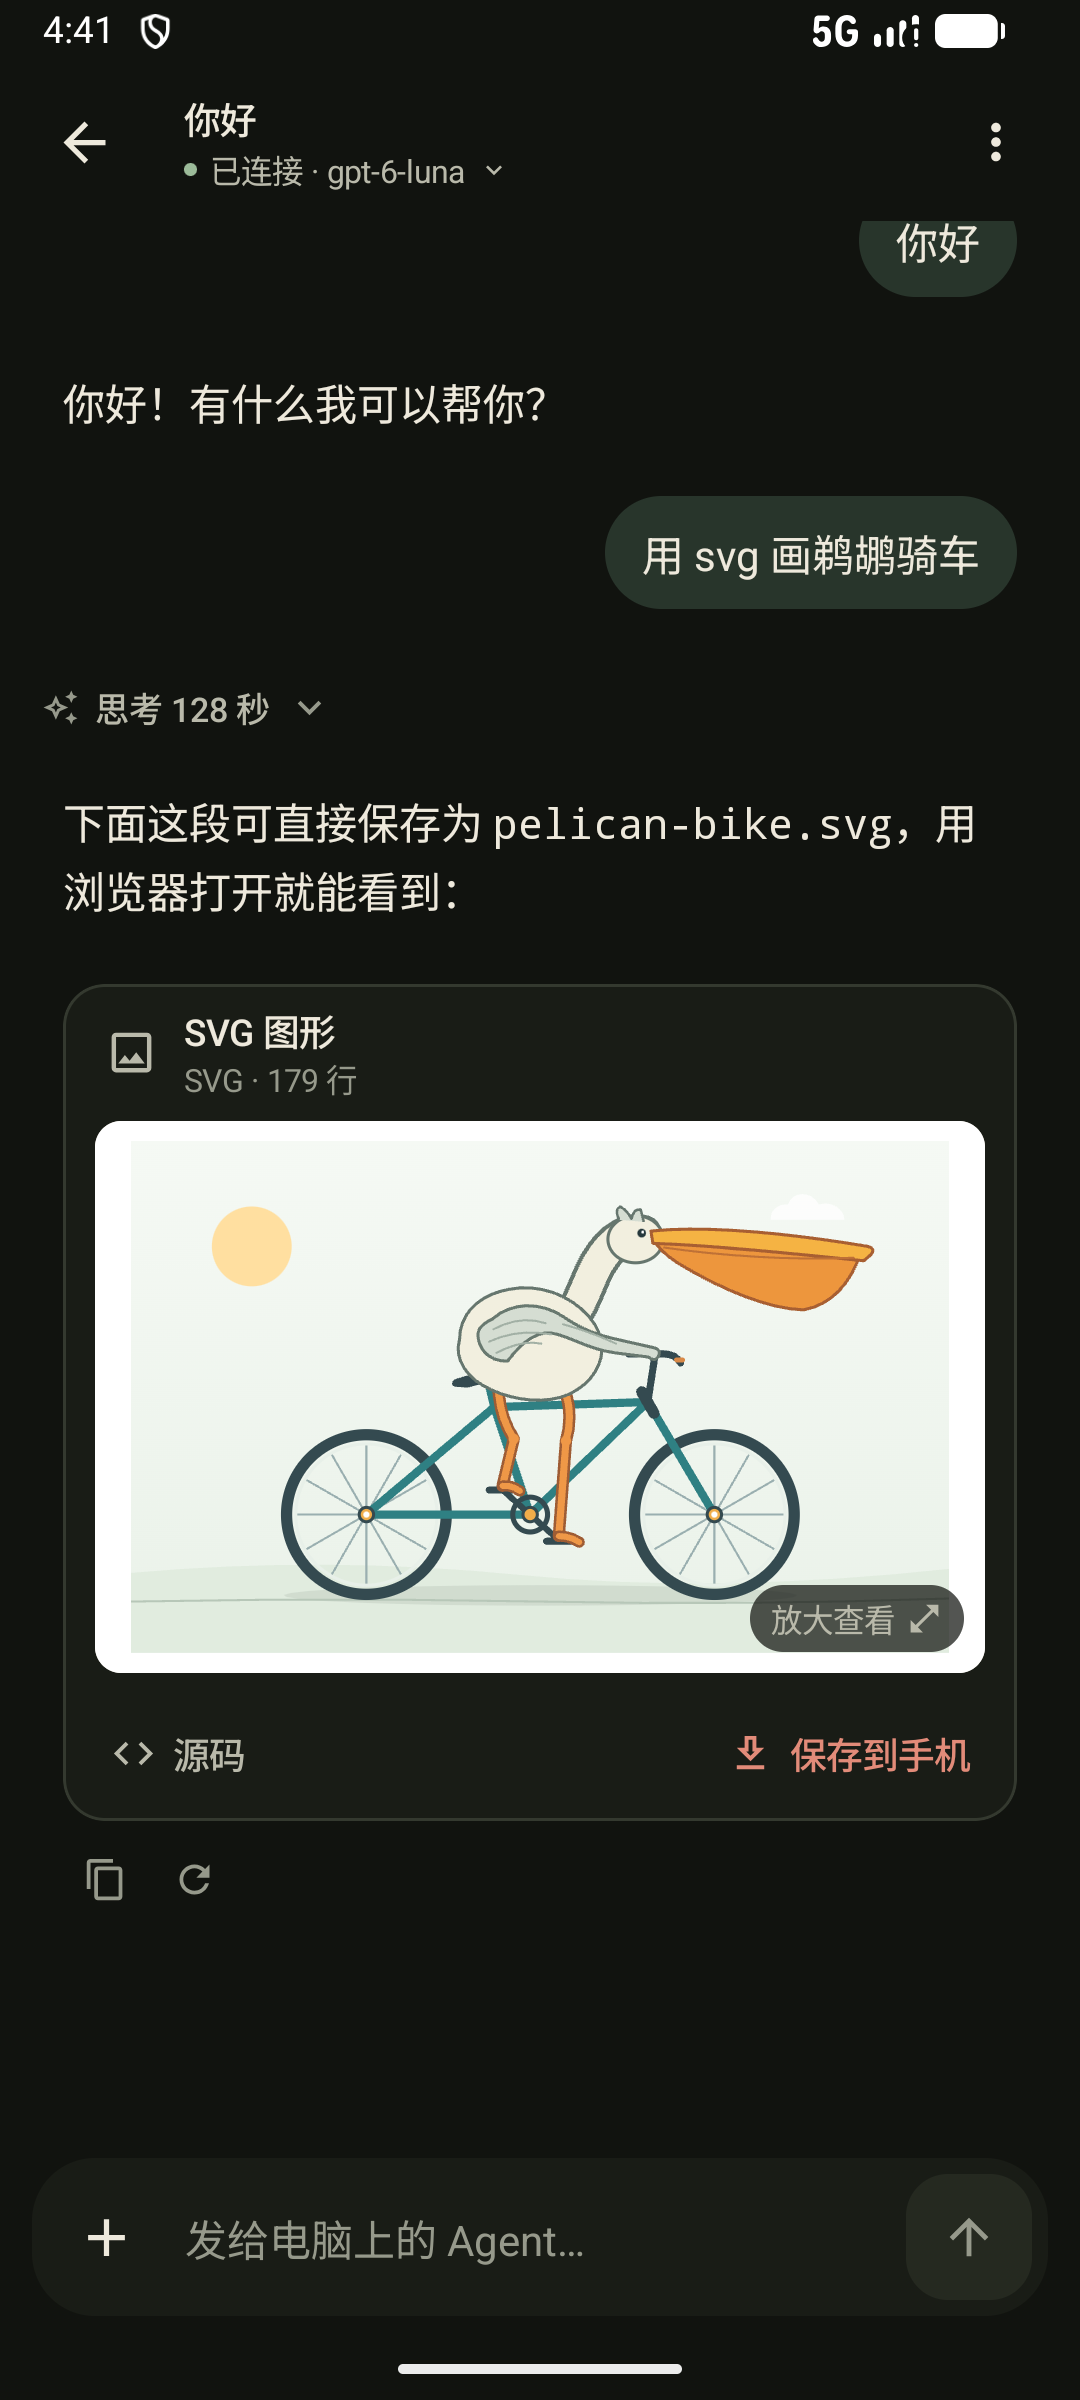
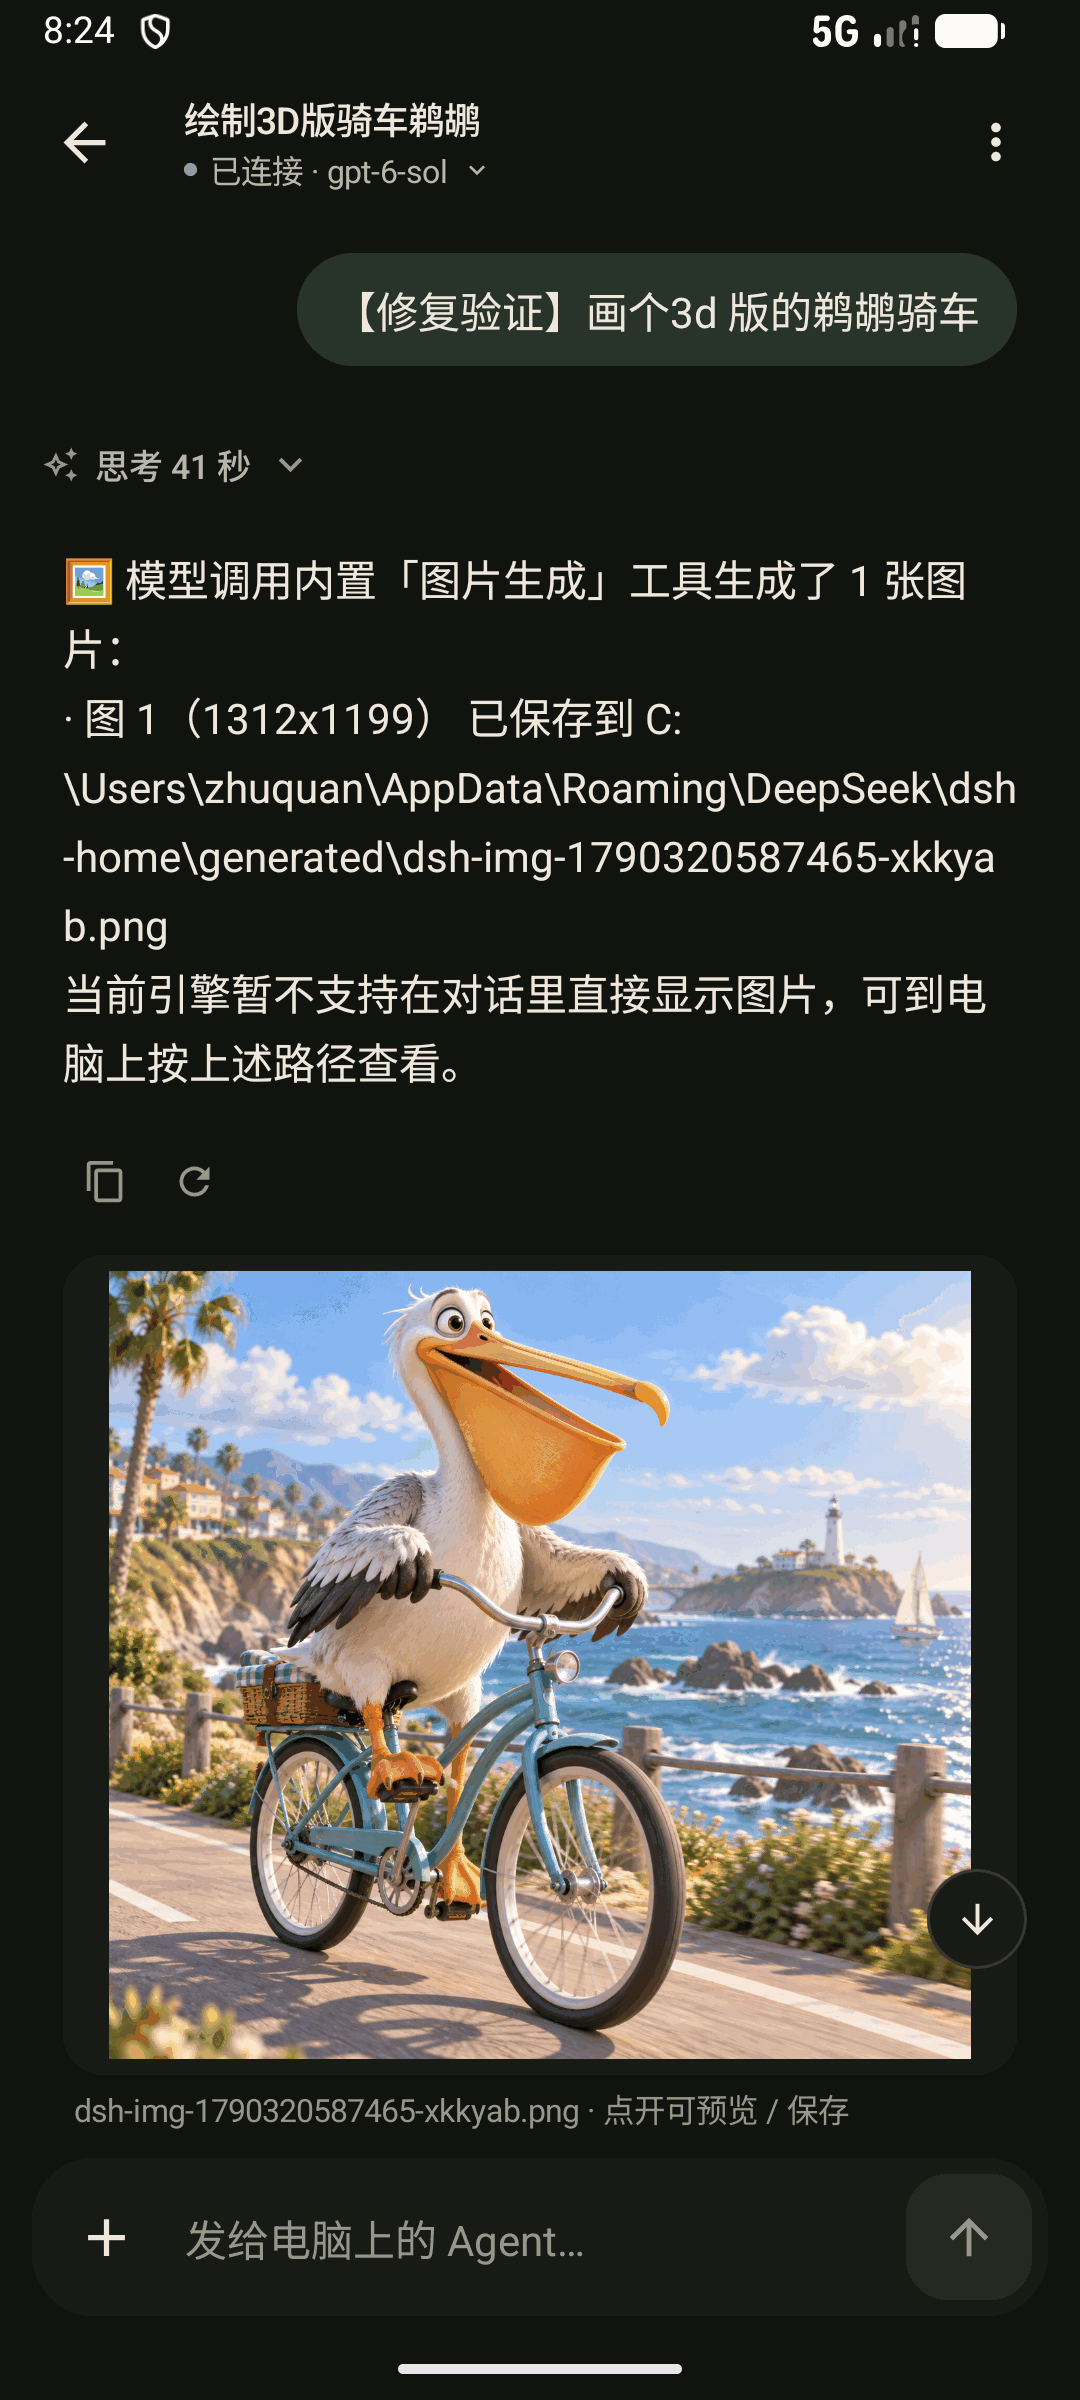
官网同步：手机端 0.2.69 / 桌面端 0.5.30 公告 + 更新卡（模型画完手机上直接看）；主截图换为图片生成实拍

diff --git a/index.html b/index.html
@@ -473,7 +473,7 @@ footer{background:linear-gradient(180deg,rgba(238,233,220,.012),transparent),var
 <body>
 
 <div class="announce">
-  <span>🐳 <b>桌面端 v0.5.28</b> · <b>手机端 v0.2.68</b> 已发布</span>
+  <span>🐳 <b>桌面端 v0.5.30</b> · <b>手机端 v0.2.69</b> 已发布</span>
   <a href="#updates">看看更新了什么 →</a>
 </div>
 
@@ -788,7 +788,7 @@ footer{background:linear-gradient(180deg,rgba(238,233,220,.012),transparent),var
 
       <div class="dl-head dl-mobile rv">
         <h3>手机端</h3>
-        <span class="ver" data-app-ver>v0.2.68</span>
+        <span class="ver" data-app-ver>v0.2.69</span>
       </div>
       <div class="dl-grid">
         <div class="dl-card rv" data-dl-key="android-any">
@@ -834,11 +834,11 @@ footer{background:linear-gradient(180deg,rgba(238,233,220,.012),transparent),var
           </ul>
         </div>
         <div class="upd rv">
-          <div class="tagline"><span class="pill gold">手机端 0.2.68</span><h3>空回复不再静默 · 审批随手可查</h3></div>
+          <div class="tagline"><span class="pill gold">手机端 0.2.69</span><h3>模型画完，手机上直接看</h3></div>
           <ul>
-            <li>模型偶发空回复时，聊天里给出提示卡与「重试」，不再无声无息</li>
-            <li>新增「设置 → 审批」：查看「等待你在电脑上审批」与最近处理结果（批准 / 拒绝仍在电脑上）</li>
-            <li>草稿里的图片随草稿保存，重启后自动恢复；配合电脑端 0.5.29 的消息去重与重连加固</li>
+            <li>模型调用绘图工具生成的图片，聊天里直接出缩略图：点开全屏看、一键保存到手机</li>
+            <li>「生成的文件」列表和会话列表计数把它们都算了进来；历史会话不用重发也能找回</li>
+            <li>配合电脑端 0.5.30（自动更新）一起生效</li>
           </ul>
         </div>
       </div>
